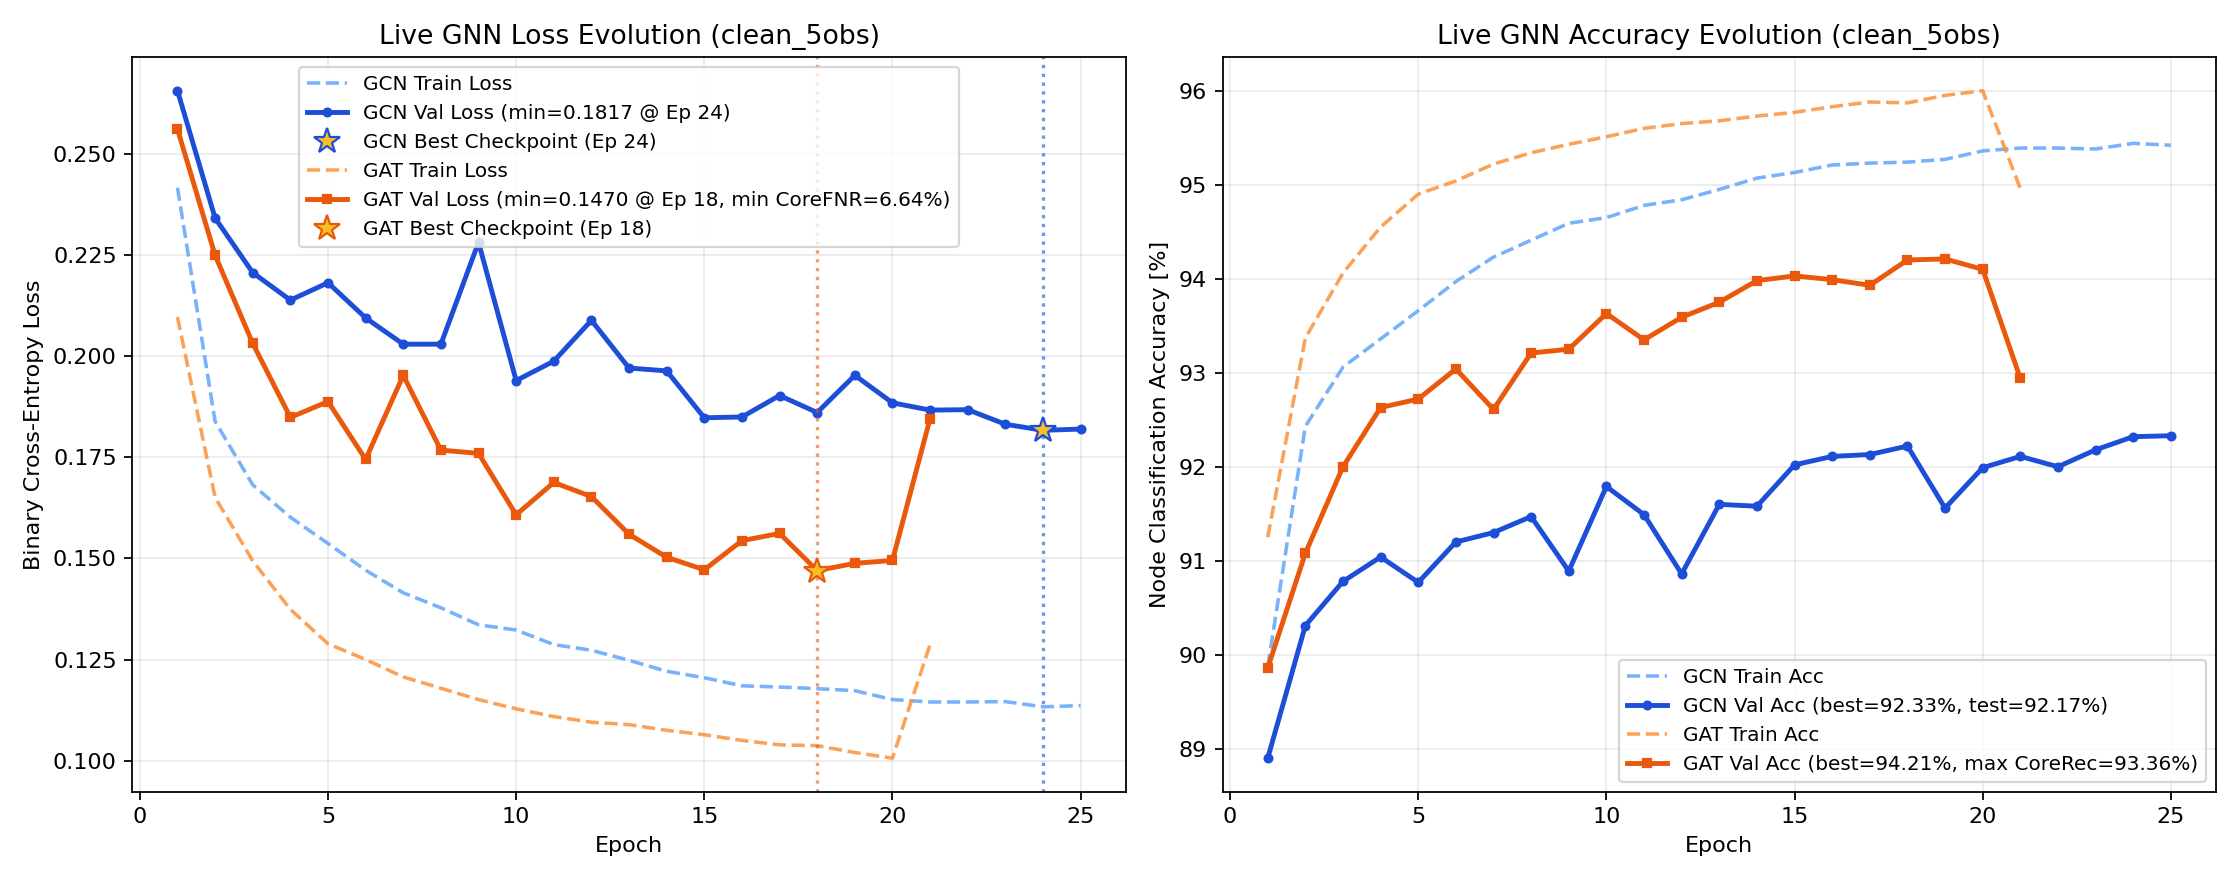
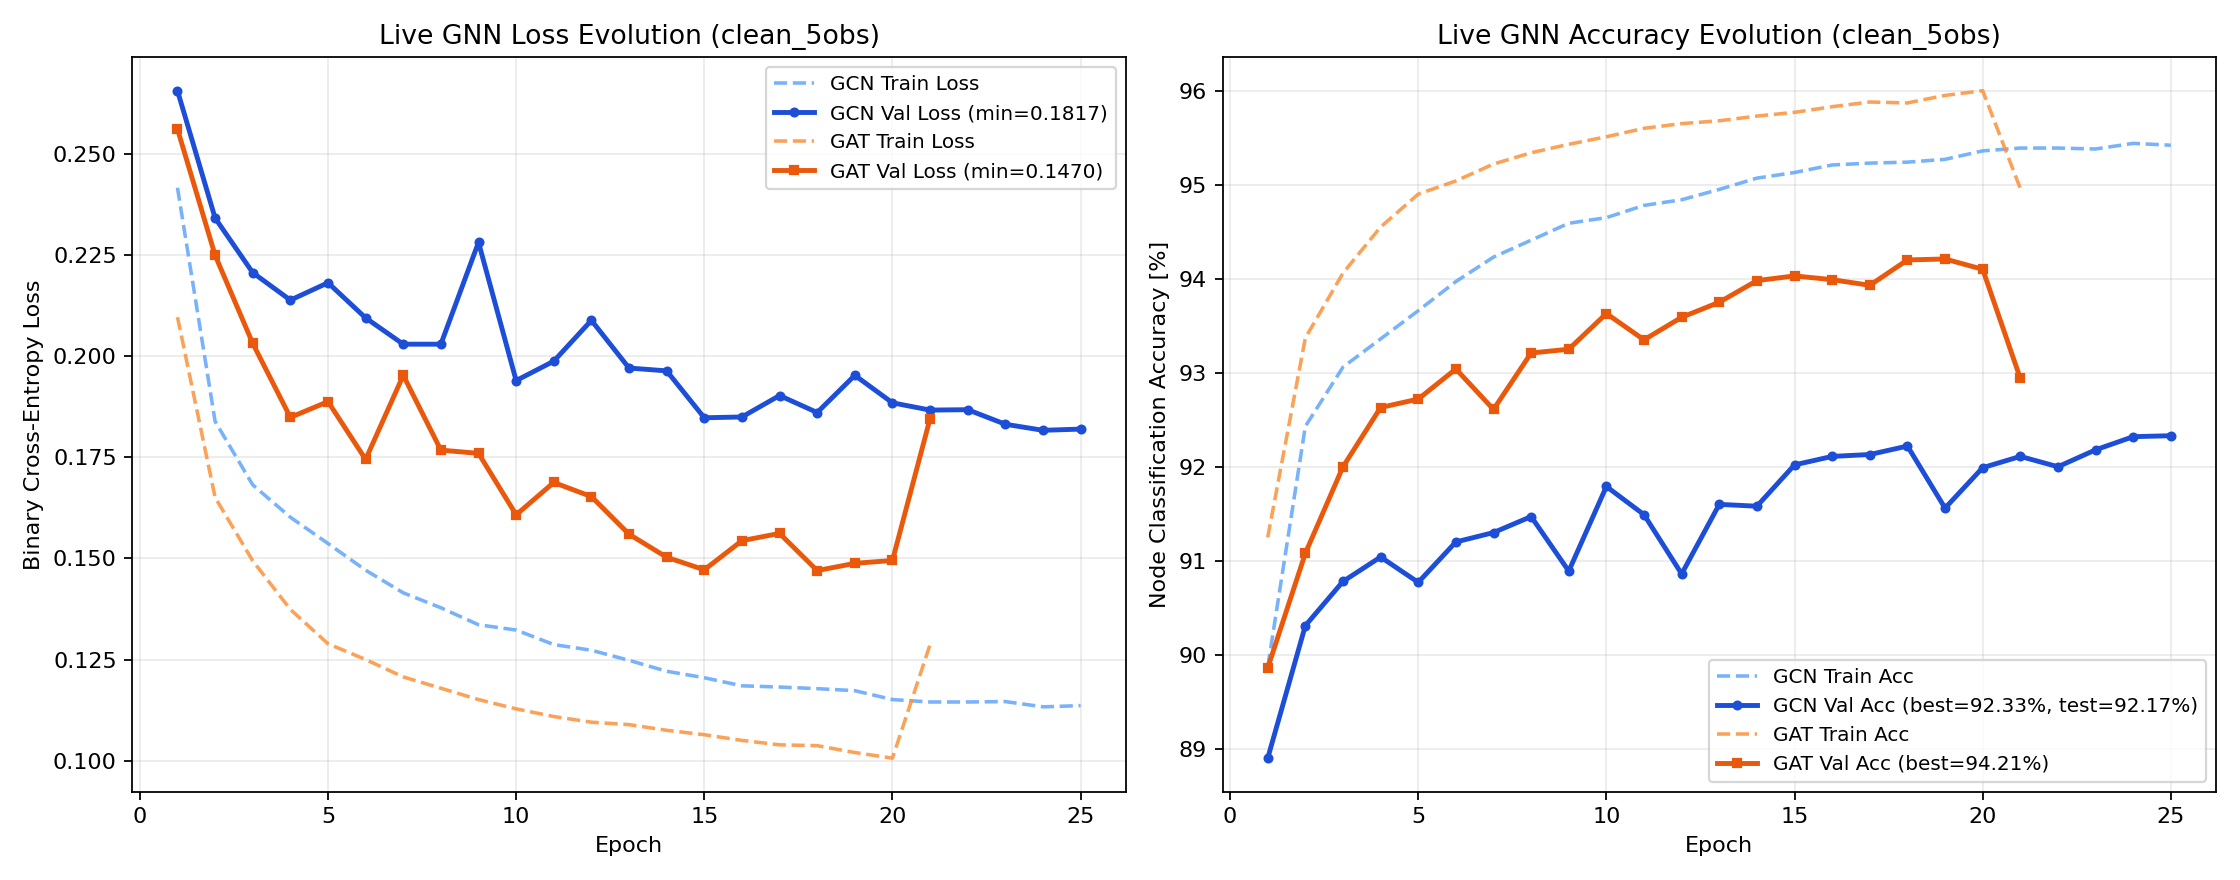
Update Study 2 live status and figures (2026-11-11 21:18)

Changed region(s): [[0.125, 0.0614, 0.5, 0.2761], [0.7188, 0.7364, 0.9688, 0.8898], [0.3438, 0.6443, 0.375, 0.675]]

diff --git a/LIVE_STATUS.md b/LIVE_STATUS.md
@@ -1,35 +1,27 @@
 # Live Pipeline Status on Jed
 
 ```text
-[2026-11-11 21:18:17] Study 2 Pipeline Status on Jed
+[2026-11-11 21:18:39] Study 2 Pipeline Status on Jed
 - Step 1 (Plummer ICs): 81 / 81 ready
 - Step 2 (SWIFT Runs): 81 / 81 completed (101 snapshots)
 - Step 3 (Observables): Labels=81/81 | Clean=81/81 | GaiaNoisy=81/81
 - Step 4 (5D Graphs): Clean=81/81 | GaiaNoisy=81/81
 - Step 5/6 Live GNN Training Progress:
-  * clean_5obs/training_metrics_gat_clean.log: Ep 021 | Train 0.1287 (94.96%) | Val 0.1846 (92.94%, Best=94.21%) | CoreFNR: 6.64% (min=6.64%) | Test=In progress
+  * clean_5obs/training_metrics_gat_clean.log: Ep 021 | Train 0.1287 (94.96%) | Val 0.1846 (92.94%, Best=94.21%) | Test=In progress
   * clean_5obs/training_metrics_gcn_clean.log: Ep 025 | Train 0.1136 (95.42%) | Val 0.1820 (92.33%, Best=92.33%) | Test=92.17%
-- Saved Model Checkpoints (.pth): 2 mirrored in GNN-jed/trained_models/study2/weights/
 
 SLURM Queue:
 JOBID  PARTITION                   NAME   ST       TIME  NODES NODELIST(REASON)
 40998767_[0-4%   academic      Study2_Step6_4Obs   PD       0:00      2 (Dependency)
-      40998766   academic   Study2_Step5_Train81    R 3-04:48:32      2 jst[072,076]
+      40998766   academic   Study2_Step5_Train81    R 3-04:48:39      2 jst[072,076]
 ```
 
 ## Live Neural Network Training Metrics
 
-| Experiment | Architecture | Latest Epoch | Train Loss | Train Acc | Val Loss | Val Acc | Best Val Acc | Core FNR | Test Acc | Test F1 |
-| :--- | :---: | :---: | :---: | :---: | :---: | :---: | :---: | :---: | :---: | :---: |
-| `clean_5obs` | **GAT** | 21 | 0.1287 | 94.96% | 0.1846 | 92.94% | **94.21%** | 6.64% (val min) | **In progress** | - |
-| `clean_5obs` | **GCN** | 25 | 0.1136 | 95.42% | 0.1820 | 92.33% | **92.33%** | - | **92.17%** | 0.8886 |
-
-## Saved Model Weights (`.pth` Checkpoints)
-
-| Checkpoint | Size | Experiment Path | Central Archive Mirror |
-| :--- | :---: | :--- | :--- |
-| `best_gat_clean.pth` | 361.2 KB | `GNN-jed/trained_models/study2/clean_5obs/best_gat_clean.pth` | `GNN-jed/trained_models/study2/weights/best_gat_clean.pth` |
-| `best_gcn_clean.pth` | 120.0 KB | `GNN-jed/trained_models/study2/clean_5obs/best_gcn_clean.pth` | `GNN-jed/trained_models/study2/weights/best_gcn_clean.pth` |
+| Experiment | Architecture | Latest Epoch | Train Loss | Train Acc | Val Loss | Val Acc | Best Val Acc | Test Acc | Test F1 |
+| :--- | :---: | :---: | :---: | :---: | :---: | :---: | :---: | :---: | :---: |
+| `clean_5obs` | **GAT** | 21 | 0.1287 | 94.96% | 0.1846 | 92.94% | **94.21%** | **In progress** | - |
+| `clean_5obs` | **GCN** | 25 | 0.1136 | 95.42% | 0.1820 | 92.33% | **92.33%** | **92.17%** | 0.8886 |
 
 ## Real-Time GNN Learning Curves (Loss & Accuracy Evolution)
 
